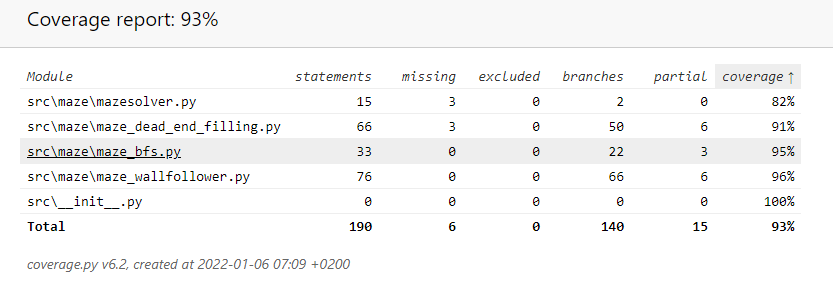
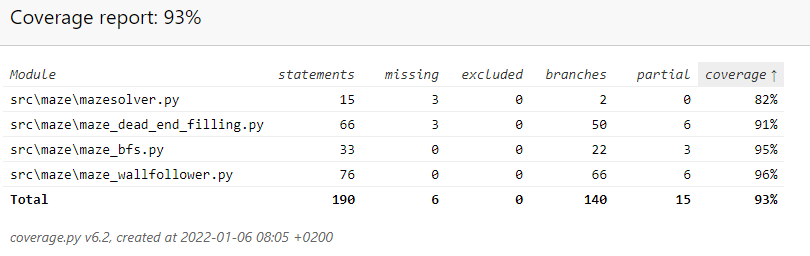
Kuvat uusittu, turha __init__.py poistettu

diff --git a/src/index.py b/src/index.py
@@ -36,7 +36,7 @@ Visuaalinen 5x5:
 
     elif OPTION == "2":
         ms = MazeSolver(5,5)
-        ms.maze.CreateMaze(loadMaze="src/maze/maze-20x20.csv")
+        ms.maze.CreateMaze(loadMaze="src/maze/maze-100x100.csv")
 
         starttime=time.time_ns()
 
@@ -47,7 +47,7 @@ Visuaalinen 5x5:
 
     elif OPTION == "3":
         ms = MazeSolver(5,5)
-        ms.maze.CreateMaze(loadMaze="src/maze/maze-20x20.csv")
+        ms.maze.CreateMaze(loadMaze="src/maze/maze-100x100.csv")
 
         starttime=time.time_ns()
 
@@ -58,7 +58,7 @@ Visuaalinen 5x5:
 
     elif OPTION == "4":
         ms = MazeSolver(5,5)
-        ms.maze.CreateMaze(loadMaze="src/maze/maze-20x20.csv")
+        ms.maze.CreateMaze(loadMaze="src/maze/maze-100x100.csv")
 
         starttime=time.time_ns()
 

diff --git a/src/maze/mazesolver.py b/src/maze/mazesolver.py
@@ -2,9 +2,9 @@
 """
 
 from pyamaze import maze
-from src.maze.maze_wallfollower import wallfollower
-from src.maze.maze_dead_end_filling import dead_end_filling
-from src.maze.maze_bfs import bfs
+from maze.maze_wallfollower import wallfollower
+from maze.maze_dead_end_filling import dead_end_filling
+from maze.maze_bfs import bfs
 
 class MazeSolver:
     """Luokka toimii maze-olion luomisessa

diff --git a/src/tests/maze_dead-end_filling_test.py b/src/tests/maze_dead-end_filling_test.py
@@ -1,8 +1,8 @@
 import unittest
-import src.maze.maze_dead_end_filling as deaf
+import maze.maze_dead_end_filling as deaf
 from pyamaze import maze
 
-class Testdead_end_filling(unittest.TestCase):
+class dead_end_fillingTest(unittest.TestCase):
     def setUp(self):
         pass
     def test_dead_end_filling(self):

diff --git a/src/tests/mazesolver_test.py b/src/tests/mazesolver_test.py
@@ -1,8 +1,8 @@
 import unittest
-import src.maze.mazesolver as ms
+import maze.mazesolver as ms
 from pyamaze import maze
 
-class TestMazeSolver(unittest.TestCase):
+class MazeSolverTest(unittest.TestCase):
     def setUp(self):
         self.amaze = ms.MazeSolver(2,2)
         self.assertEqual(self.amaze.height,2)

diff --git a/src/tests/maze_wallfollower_test.py b/src/tests/maze_wallfollower_test.py
@@ -1,8 +1,8 @@
 import unittest
-import src.maze.maze_wallfollower as wf
+import maze.maze_wallfollower as wf
 from pyamaze import maze
 
-class Testwallfollower(unittest.TestCase):
+class wallfollowerTest(unittest.TestCase):
     def setUp(self):
         pass
     def test_wf(self):

diff --git a/src/tests/maze_bfs_test.py b/src/tests/maze_bfs_test.py
@@ -1,8 +1,8 @@
 import unittest
-import src.maze.maze_bfs as bfs
+import maze.maze_bfs as bfs
 from pyamaze import maze
 
-class Testbfs(unittest.TestCase):
+class bfsTest(unittest.TestCase):
     def setUp(self):
         pass
     def test_bfs(self):

diff --git a/src/maze/maze_dead_end_filling.py b/src/maze/maze_dead_end_filling.py
@@ -1,7 +1,7 @@
 """Dead end filling algoritmi
 """
 
-import src.maze.maze_wallfollower as wf
+import maze.maze_wallfollower as wf
 
 def dead_end_filling(maze, aloitus = None):
     """Dead end filling algoritmin päärunko
